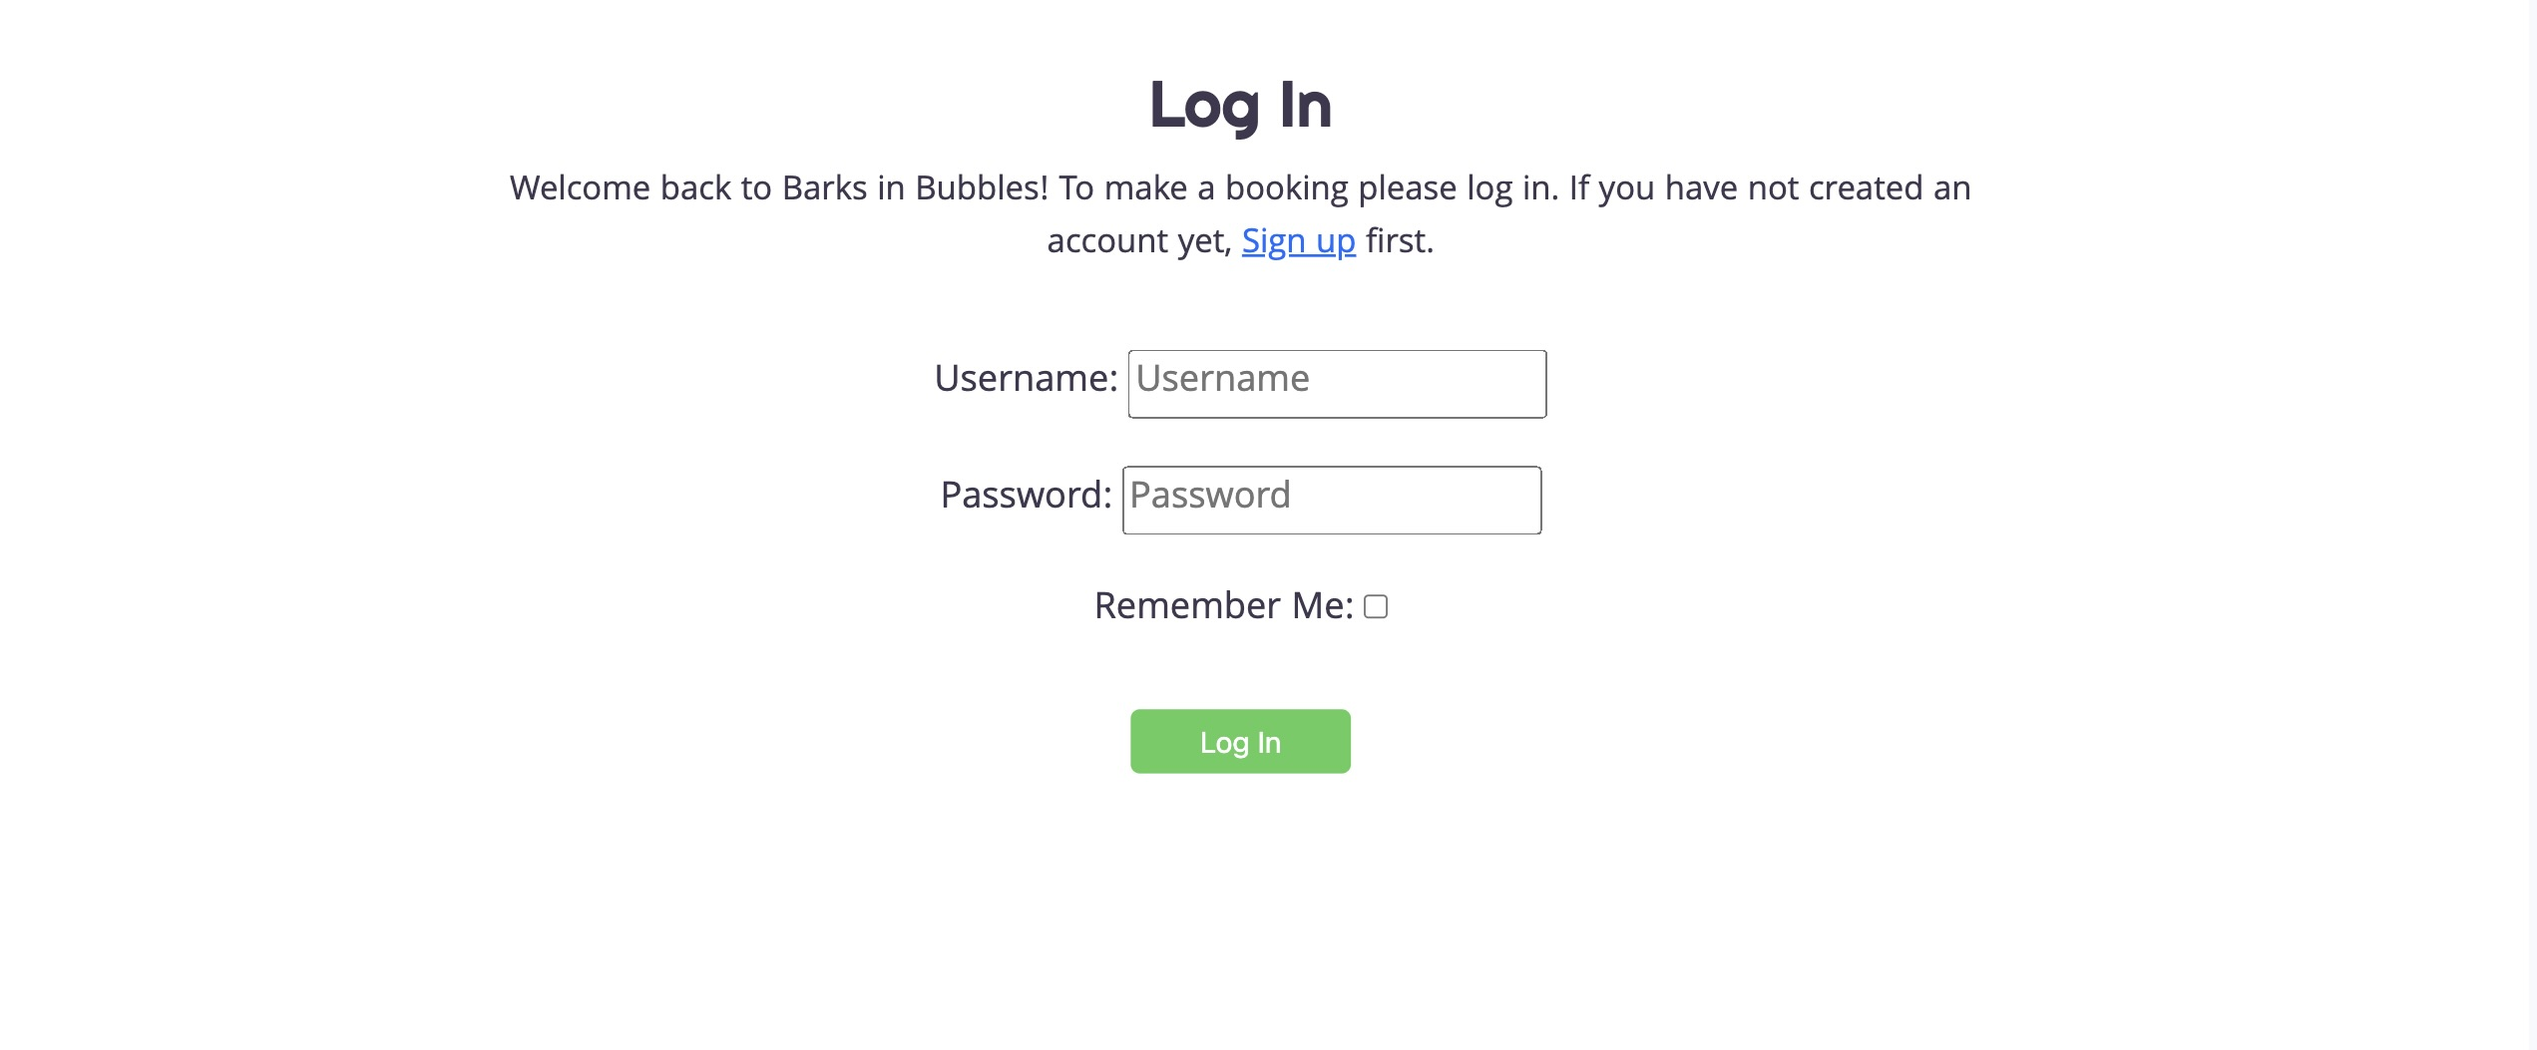
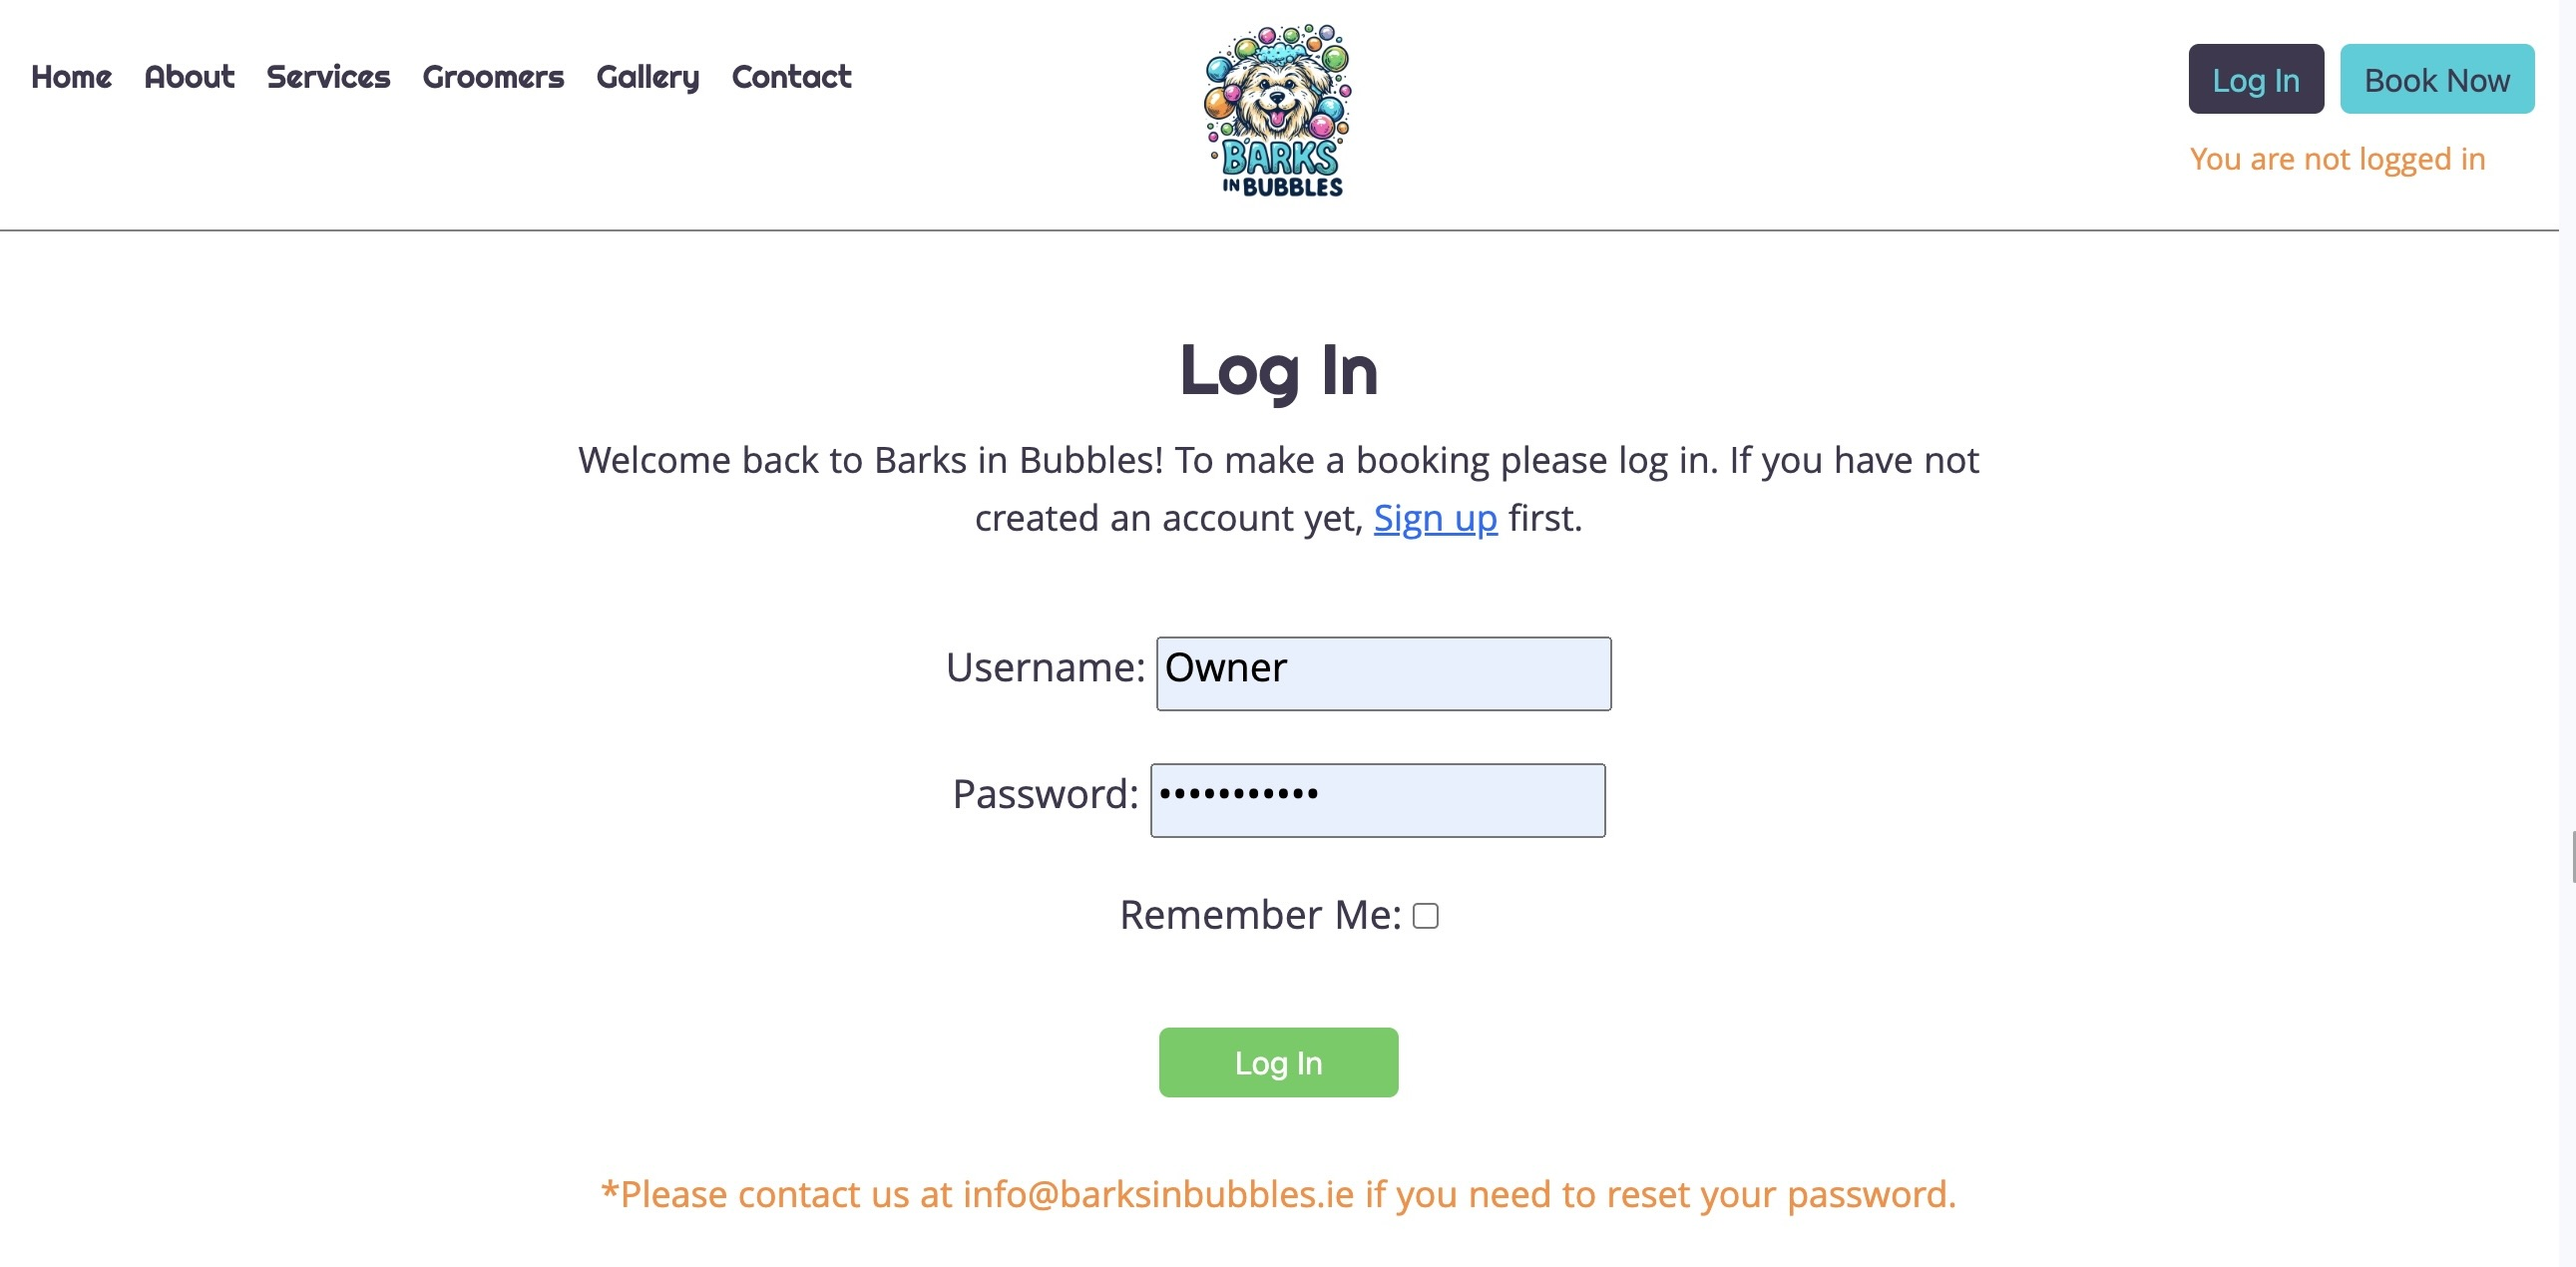
Improve Log In and Sign Up templates. Upload imagies for README.md file

diff --git a/appointment/templates/appointment/my_appointments.html b/appointment/templates/appointment/my_appointments.html
@@ -1,69 +1,68 @@
-{% extends 'base.html' %} 
-{% load static %} 
+{% extends 'base.html' %}
+{% load static %}
 {% block content %}
 
-    <div class="row justify-content-center mx-1">
-        <div class="col-12">
-            {% if user.is_authenticated and appointments %} 
-            <div class="d-flex flex-column align-items-center">
-                <a href="{% url 'appointment' %}" class="btn btn-book mt-3 w-45">Book New Appointment</a>
-            </div> 
-            <h1 class="text-center my-5">All Bookings</h1>
-            <table class="table table-bordered text-center">
-                <thead>
-                    <tr>
-                        <!-- Show the user column if admin -->
-                        {% if user.is_superuser %}
-                        <th>User</th>
-                        {% endif %}
-                        <th>Service</th>
-                        <th class="d-none d-lg-block">Groomer</th>
-                        <th>Date</th>
-                        <th>Time</th>
-                        <th class="d-none d-lg-block">Status</th>
-                        <th>Actions</th>
-                    </tr>
-                </thead>
-                <tbody> 
-                    {% for appointment in appointments %} <tr>
-                        <!-- Show the user column if admin -->
-                        {% if user.is_superuser %}
-                        <td>{{ appointment.user.username }}</td>
-                        {% endif %}
-                        <td>{{ appointment.service.name }}</td>
-                        <td class="d-none d-lg-block">{{ appointment.groomer.name }}</td>
-                        <td>{{ appointment.date|date:"M d, Y" }}</td>
-                        <td>{{ appointment.time|time:"H:i" }}</td>
-                        <td class="d-none d-lg-block">{{ appointment.get_status_display }}</td>
-                        <td>
-                            <div class="d-flex flex-column justify-content-center align-items-center flex-md-row my-md-2 mx-0">
-                                {% if appointment.can_edit_delete %}
-                                <button class="btn btn-edit m-1" data-appointment-id="{{ appointment.id }}">Edit</button>
-                                <button class="btn btn-delete m-1" data-appointment-id="{{ appointment.id }}">Delete</button>
-                                {% else %}
-                                <button class="btn btn-edit m-1" disabled>Edit</button>
-                                <button class="btn btn-delete m-1" disabled>Delete</button>
-                                {% endif %}
-                            </div>
-                        </td>
-                    </tr> 
-                    {% endfor %} 
-                </tbody>
-            </table>
-            <div class="d-flex flex-column align-items-center">
-                <a href="{% url 'appointment' %}" class="btn btn-book mt-3 w-45 mb-4">Book New Appointment</a>
-            </div> 
-            {% else %}
-            <div class="alert alert-info mt-4" role="alert">
-                <p class="text-center m-0">You have no appointments scheduled.</p>
-            </div>
-            <div class="d-flex flex-column align-items-center">
-                <a href="{% url 'appointment' %}" class="btn btn-book mt-3 w-45 mb-4">Book Appointment</a>
-            </div> 
-            {% endif %}
+<div class="row justify-content-center mx-1">
+    <div class="col-12">
+        {% if user.is_authenticated and appointments %}
+        <div class="d-flex flex-column align-items-center">
+            <a href="{% url 'appointment' %}" class="btn btn-book mt-3 w-45">Book New Appointment</a>
         </div>
+        <h1 class="text-center my-5">All Bookings</h1>
+        <table class="table table-bordered text-center">
+            <thead>
+                <tr>
+                    {% if user.is_superuser %}
+                    <th>User</th>
+                    {% endif %}
+                    <th>Service</th>
+                    <th class="d-none d-lg-block">Groomer</th>
+                    <th>Date</th>
+                    <th>Time</th>
+                    <th class="d-none d-lg-block">Status</th>
+                    <th>Actions</th>
+                </tr>
+            </thead>
+            <tbody>
+                {% for appointment in appointments %}
+                <tr>
+                    {% if user.is_superuser %}
+                    <td>{{ appointment.user.username }}</td>
+                    {% endif %}
+                    <td>{{ appointment.service.name }}</td>
+                    <td class="d-none d-lg-block">{{ appointment.groomer.name }}</td>
+                    <td>{{ appointment.date|date:"M d, Y" }}</td>
+                    <td>{{ appointment.time|time:"H:i" }}</td>
+                    <td class="d-none d-lg-block">{{ appointment.get_status_display }}</td>
+                    <td>
+                        <div class="d-flex flex-column justify-content-center align-items-center flex-md-row my-md-2 mx-0">
+                            {% if appointment.can_edit_delete %}
+                            <button class="btn btn-edit m-1" data-appointment-id="{{ appointment.id }}">Edit</button>
+                            <button class="btn btn-delete m-1" data-appointment-id="{{ appointment.id }}">Delete</button>
+                            {% else %}
+                            <button class="btn btn-edit m-1" disabled>Edit</button>
+                            <button class="btn btn-delete m-1" disabled>Delete</button>
+                            {% endif %}
+                        </div>
+                    </td>
+                </tr>
+                {% endfor %}
+            </tbody>
+        </table>
+        <div class="d-flex flex-column align-items-center">
+            <a href="{% url 'appointment' %}" class="btn btn-book mt-3 w-45 mb-4">Book New Appointment</a>
+        </div>
+        {% else %}
+        <div class="alert alert-info mt-4" role="alert">
+            <p class="text-center m-0">You have no appointments scheduled.</p>
+        </div>
+        <div class="d-flex flex-column align-items-center">
+            <a href="{% url 'appointment' %}" class="btn btn-book mt-3 w-45 mb-4">Book Appointment</a>
+        </div>
+        {% endif %}
     </div>
 </div>
+
 <!-- Delete confirmation modal -->
 <div class="modal fade" id="deleteModal" tabindex="-1" aria-labelledby="deleteModalLabel" aria-hidden="true">
     <div class="modal-dialog">
@@ -75,13 +74,12 @@
             <div class="modal-body">Are you sure you want to delete this appointment? This action cannot be undone.</div>
             <div class="modal-footer">
                 <button type="button" class="btn btn-secondary" data-bs-dismiss="modal">Close</button>
-                <a id="deleteConfirm" href="#" class="btn
-        btn-delete">Delete</a>
+                <a id="deleteConfirm" href="#" class="btn btn-delete">Delete</a>
             </div>
         </div>
     </div>
 </div>
-{% endblock %} 
-{% block extras %} 
-<script src="{% static 'js/appointments.js' %}"></script> 
+{% endblock %}
+{% block extras %}
+<script src="{% static 'js/appointments.js' %}"></script>
 {% endblock %}

diff --git a/staticfiles/css/style.css b/staticfiles/css/style.css
@@ -195,7 +195,7 @@ h2.card-title
     border-color: #50514F;
 }
 
-/* Sty Forms labels font */
+/* Style Forms labels font */
 label {
     font-family: "Khula", sans-serif !important;
     font-size: 110% !important;
@@ -240,7 +240,16 @@ footer {
 }
 
 .signup label {
-    width: 160px;
+    width: 180px;
+}
+
+.errorlist {
+    color:#ff5cb7
+}
+
+/* Style Log In form */
+.password-reset {
+    color: #fe8b32;
 }
 
 /* Style Log In and Sign up buttons on account pages */
@@ -330,16 +339,22 @@ footer {
     background-color: #cccccc;
 }
 
-/* Media query: mobile phones (320px and up) */
+/* Media query: mobile phones (270px and up) */
 @media screen and (min-width: 320px) {
     /* Anchors offset */
     html {
         scroll-padding-top: 360px;
     }
 
-    /* Table font size */
-    table {
-        font-size: 12px !important;
+    /* Style table on All Bookings page */
+    table, th, td, tr {
+        font-size: 10px !important;
+    }
+
+    table .btn {
+        font-size: 10px; 
+        width: 60px;
+        height: 25px;
     }
 }
 
@@ -370,9 +385,15 @@ footer {
         font-size: 200% !important;
     }
 
-    /* Table font size */
-    table {
-        font-size: 16px !important;
+    /* Style table on All Bookings page */
+    table, th, td, tr {
+        font-size: 14px !important;
+    }
+
+    table .btn {
+        font-size: 14px; 
+        width: 80px;
+        height: 35px;
     }
 }
 
@@ -402,12 +423,24 @@ footer {
     {
         font-size: 220% !important;
     }
-}
 
-    /* Table font size */
-    table {
-        font-size: 18px !important;
+    /* Style table on All Bookings page */
+    table, th, td, tr {
+        font-size: 16px !important;
     }
+
+    table .btn {
+        font-size: 16px; 
+        width: 100px;
+        height: 45px;
+    }
+
+    /* Remove border on the table sells that are hidden on mobile */
+
+    .table .d-none.d-lg-block {
+        border: none;
+    }
+}
 
 /* Media query: larger screens (1400px and up) */
 @media screen and (min-width: 1400px) {

diff --git a/static/css/style.css b/static/css/style.css
@@ -195,7 +195,7 @@ h2.card-title
     border-color: #50514F;
 }
 
-/* Sty Forms labels font */
+/* Style Forms labels font */
 label {
     font-family: "Khula", sans-serif !important;
     font-size: 110% !important;
@@ -240,7 +240,16 @@ footer {
 }
 
 .signup label {
-    width: 160px;
+    width: 180px;
+}
+
+.errorlist {
+    color:#ff5cb7
+}
+
+/* Style Log In form */
+.password-reset {
+    color: #fe8b32;
 }
 
 /* Style Log In and Sign up buttons on account pages */

diff --git a/templates/account/login.html b/templates/account/login.html
@@ -29,5 +29,5 @@
       </div>
   </div>
 </div>
-
+<p class="text-center password-reset">{% blocktrans %}*Please contact us at info@barksinbubbles.ie if you need to reset your password.{% endblocktrans %}</p>
 {% endblock content %}
